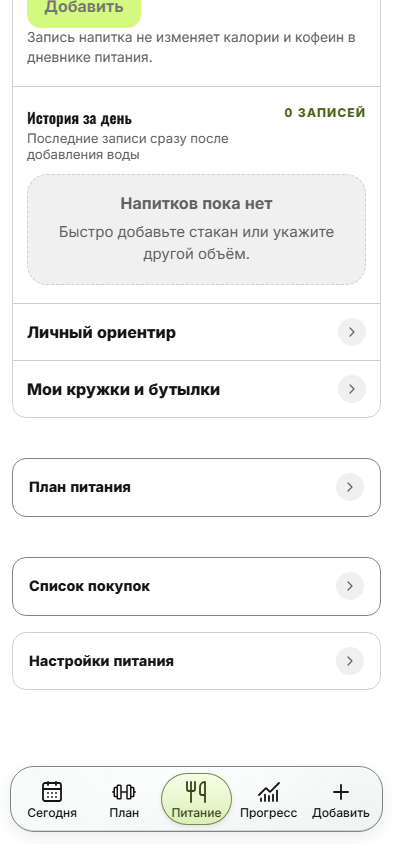
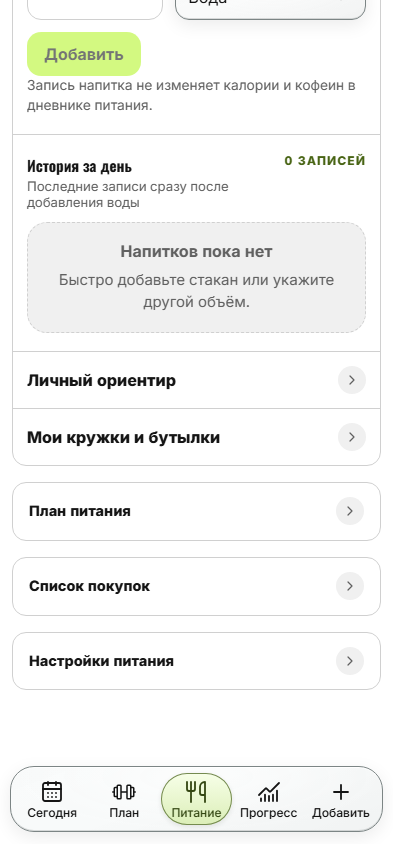
fix(ui): unify nutrition section spacing and border colors (#1047)

diff --git a/frontend/tests/e2e/ui-backlog-869-870.spec.ts b/frontend/tests/e2e/ui-backlog-869-870.spec.ts
@@ -81,6 +81,42 @@ for (const theme of themes) {
             });
           expect(headingStyle).toEqual(settingsHeadingStyle);
         }
+        // All three mobile sections must have the same frame color and spacing,
+        // regardless of whether #1048 puts KBJU settings first or last.
+        const sectionLayout = await page
+          .locator(
+            '.nutrition-experience > :is(.meal-planner, .grocery-list, .nutrition-target-settings)',
+          )
+          .evaluateAll((elements) =>
+            elements.map((element) => {
+              const bounds = element.getBoundingClientRect();
+              const style = getComputedStyle(element);
+              return {
+                className: element.className,
+                top: bounds.top,
+                bottom: bounds.bottom,
+                borderColors: [
+                  style.borderTopColor,
+                  style.borderRightColor,
+                  style.borderBottomColor,
+                  style.borderLeftColor,
+                ],
+                backgroundColor: style.backgroundColor,
+              };
+            }),
+          );
+        expect(sectionLayout).toHaveLength(3);
+        const settingsLayout = sectionLayout.find((item) =>
+          item.className.includes('nutrition-target-settings'),
+        );
+        expect(settingsLayout).toBeDefined();
+        for (const item of sectionLayout) {
+          expect(item.borderColors).toEqual(settingsLayout!.borderColors);
+          expect(item.backgroundColor).toBe(settingsLayout!.backgroundColor);
+        }
+        for (let index = 1; index < sectionLayout.length; index++) {
+          expect(sectionLayout[index]!.top - sectionLayout[index - 1]!.bottom).toBeCloseTo(16, 0);
+        }
       }
       for (const detail of await planningDetails.all()) {
         const summary = detail.locator(':scope > summary');

diff --git a/frontend/src/styles/ux-ia-redesign.css b/frontend/src/styles/ux-ia-redesign.css
@@ -1812,9 +1812,10 @@ body:has(.daily-wellbeing-card.card-disclosure[open]) .app-quick-add-trigger--fl
     font-size: 16px;
   }
   .nutrition-experience :is(.meal-planner, .grocery-list) {
-    border: 1px solid var(--glass-edge);
+    margin-top: 0;
+    border: 1px solid var(--border);
     border-radius: var(--radius-control);
-    background: var(--v2-surface);
+    background: var(--surface);
     overflow: hidden;
   }
   .nutrition-experience :is(.meal-planner__summary, .grocery-list__summary) {
